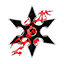
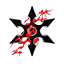
合并拉取请求 #62
* 忍术牌的高亮显示修改

* 蕾克拉的新图标

* 不知道为什么我需要导入ToList的依赖

* 卡面描述的更新和蕾克拉小标

* 改了config内有关区版的文本

* 燃烧刀的尝试性修改

* 更改了依赖，给白板夺心添加了音效

* 大毁灭数值改为33/44，移除清空蕾克拉的效果

* 大耶稣的新版本适配

* 燃烧刀代码优化

Changed region(s): [[0.125, 0.0625, 0.875, 0.875], [0.4688, 0.8125, 0.5312, 0.9062]]

diff --git a/LexNinja2Code/Cards/Rares/HandIonDestruction.cs b/LexNinja2Code/Cards/Rares/HandIonDestruction.cs
@@ -23,7 +23,7 @@ public class HandIonDestruction()
     : LexNinja2Card(3, CardType.Attack, CardRarity.Rare, TargetType.AllEnemies)
 {
     protected override IEnumerable<DynamicVar> CanonicalVars =>
-        [new DamageVar(38, ValueProp.Move), new PowerVar<NoLexkelaPower>(1)];
+        [new DamageVar(33, ValueProp.Move), new PowerVar<NoLexkelaPower>(1)];
     public override IEnumerable<CardKeyword> CanonicalKeywords => [NinjaKeyword.Hand];
     protected override IEnumerable<IHoverTip> AdditionalHoverTips => [LexKela.HoverTip()];
 
@@ -52,12 +52,11 @@ public class HandIonDestruction()
 
         await CommonActions.CardAttack(this, play).Execute(choiceContext);
         await CommonActions.ApplySelf<NoLexkelaPower>(choiceContext, this);
-        await LexKela.Reset(this);
     }
 
     protected override void OnUpgrade()
     {
-        DynamicVars.Damage.UpgradeValueBy(8);
+        DynamicVars.Damage.UpgradeValueBy(11);
     }
 
     public override string CustomPortraitPath => $"HandIonDestruction.png".BigCardImagePath();

diff --git a/LexNinja2Code/Api/Cards/NinjutsuCard.cs b/LexNinja2Code/Api/Cards/NinjutsuCard.cs
@@ -1,5 +1,6 @@
 using System;
 using System.Collections.Generic;
+using System.Linq;
 using LexNinja2.LexNinja2Code.Api.Extensions;
 using MegaCrit.Sts2.Core.Entities.Cards;
 using STS2RitsuLib.Combat.SecondaryResources;
@@ -37,7 +38,8 @@ public abstract class NinjutsuCard : LexNinja2BaseCard
 
     public bool CanCastNinjutsu()
     {
-        return SecondaryResourcePaymentResolver.CanPay(this);
+        var line = SecondaryResourcePaymentResolver.Plan(this).Lines.ToList().FirstOrDefault();
+        return line != null && line.IsAffordable;
     }
 
     protected void UpgradeNinjutsuValueBy(int addend)

diff --git a/LexNinja2Code/Cards/Commons/BurningBlade.cs b/LexNinja2Code/Cards/Commons/BurningBlade.cs
@@ -20,7 +20,7 @@ using MegaCrit.Sts2.Core.ValueProps;
 namespace LexNinja2.LexNinja2Code.Cards.Commons;
 
 public class BurningBlade()
-    : LexNinja2NinjutsuCard(1, CardType.Attack, CardRarity.Common, TargetType.AnyEnemy)
+    : LexNinja2Card(1, CardType.Attack, CardRarity.Common, TargetType.AnyEnemy)
 {
     protected override IEnumerable<DynamicVar> CanonicalVars =>
         [
@@ -40,7 +40,7 @@ public class BurningBlade()
         await CommonActions.CardAttack(this, play).Execute(choiceContext);
         // if (!shouldTriggerFatal || !attackCommand.Results.Any<DamageResult>((Func<DamageResult, bool>) (r => r.WasTargetKilled)))
 
-        if (!Ninjutsu(play))
+        if (!await LexKela.Spend(Owner, DynamicVars.Ninjutsu().IntValue, this, this))
         {
             return;
         }

diff --git a/LexNinja2Code/Cards/Rares/TakeYourHeart.cs b/LexNinja2Code/Cards/Rares/TakeYourHeart.cs
@@ -41,8 +41,9 @@ public class TakeYourHeart()
     {
         if (!IsEnoughDebuff(play.Target!) || !Ninjutsu(play))
         {
+            NinjaAudio.Play("res://LexNinja2/audio/Hia.mp3");
             await CommonActions
-                .CardAttack(this, play, vfx: "vfx/vfx_attack_blunt", tmpSfx: "blunt_attack.mp3")
+                .CardAttack(this, play, vfx: "vfx/vfx_molten_fist", tmpSfx: "blunt_attack.mp3")
                 .Execute(choiceContext);
             return;
         }

diff --git a/LexNinja2Code/Cards/Rares/PowerJesus.cs b/LexNinja2Code/Cards/Rares/PowerJesus.cs
@@ -32,6 +32,7 @@ public class PowerJesus() : LexNinja2Card(3, CardType.Skill, CardRarity.Rare, Ta
         NinjaAudio.Play("res://LexNinja2/audio/PowerJesus.mp3");
         await NinjaAnim.TriggerCastAnim(this);
 
+        await LexKela.Gain(Owner, LexKela.Get(Owner));
         var buffs = Owner
             .Creature.Powers.Where(p => p.TypeForCurrentAmount == PowerType.Buff)
             .Where(p => p.StackType == PowerStackType.Counter)